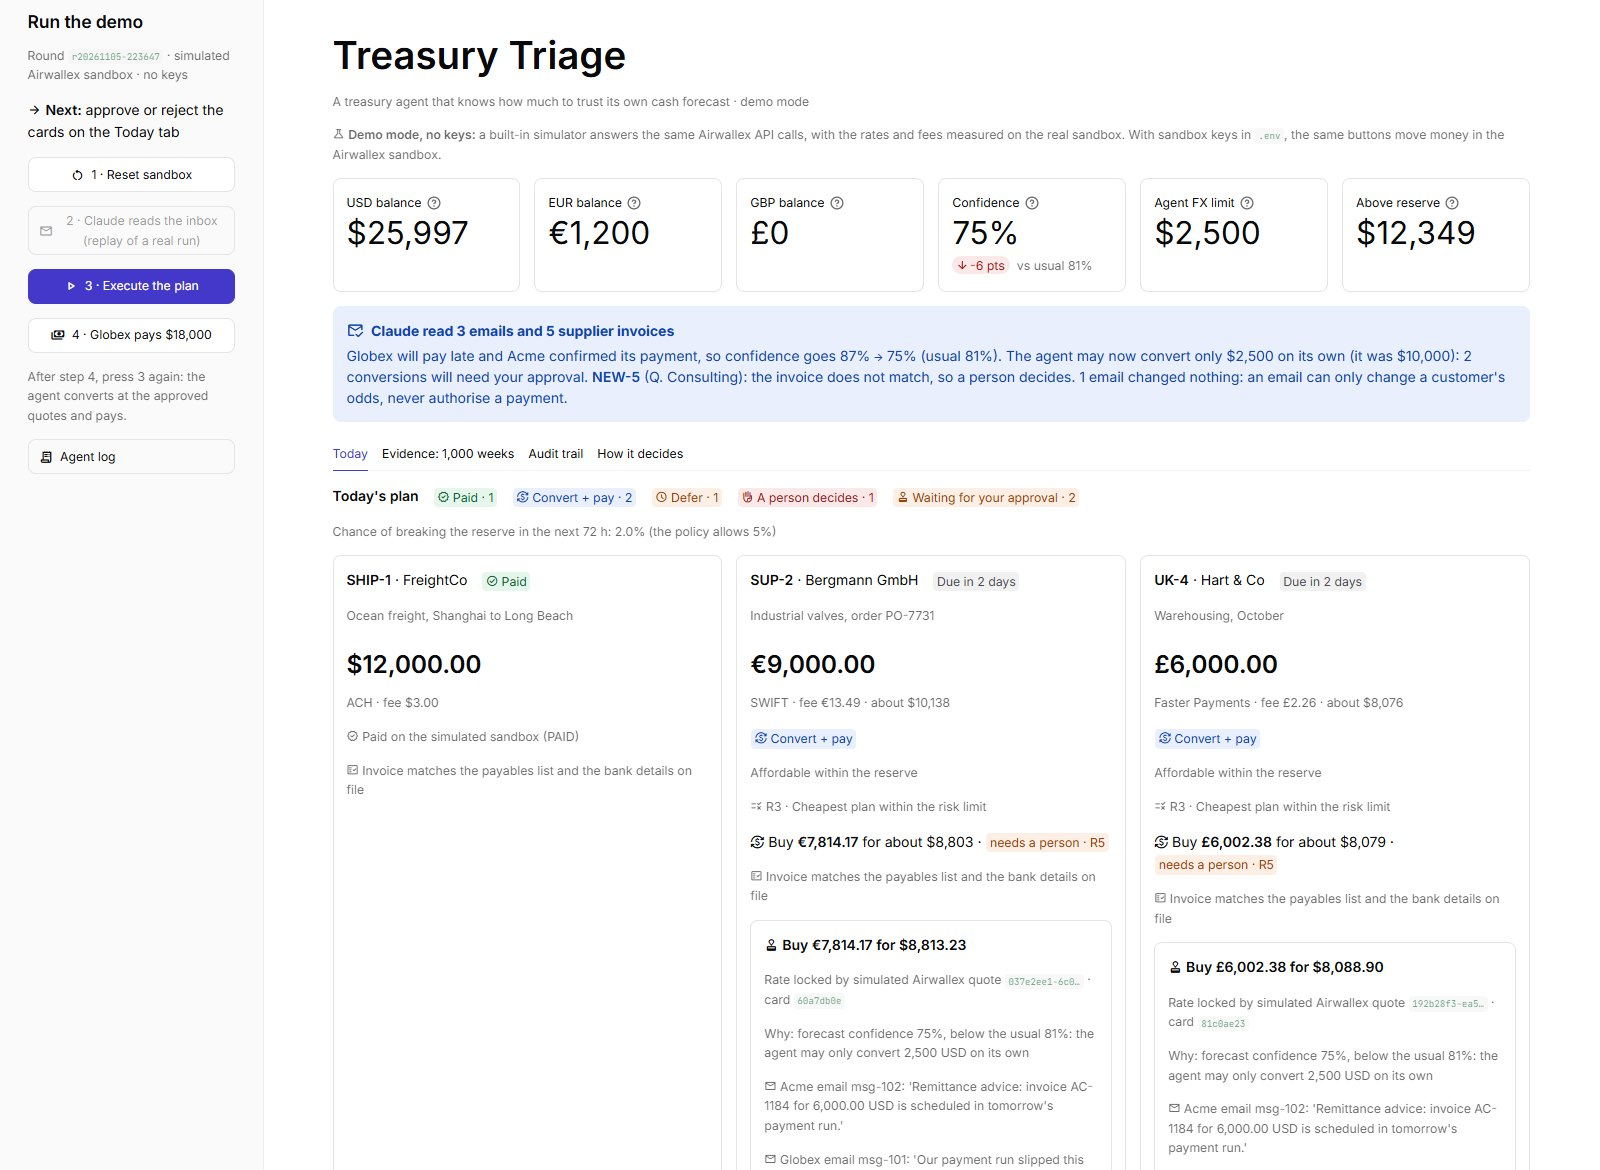
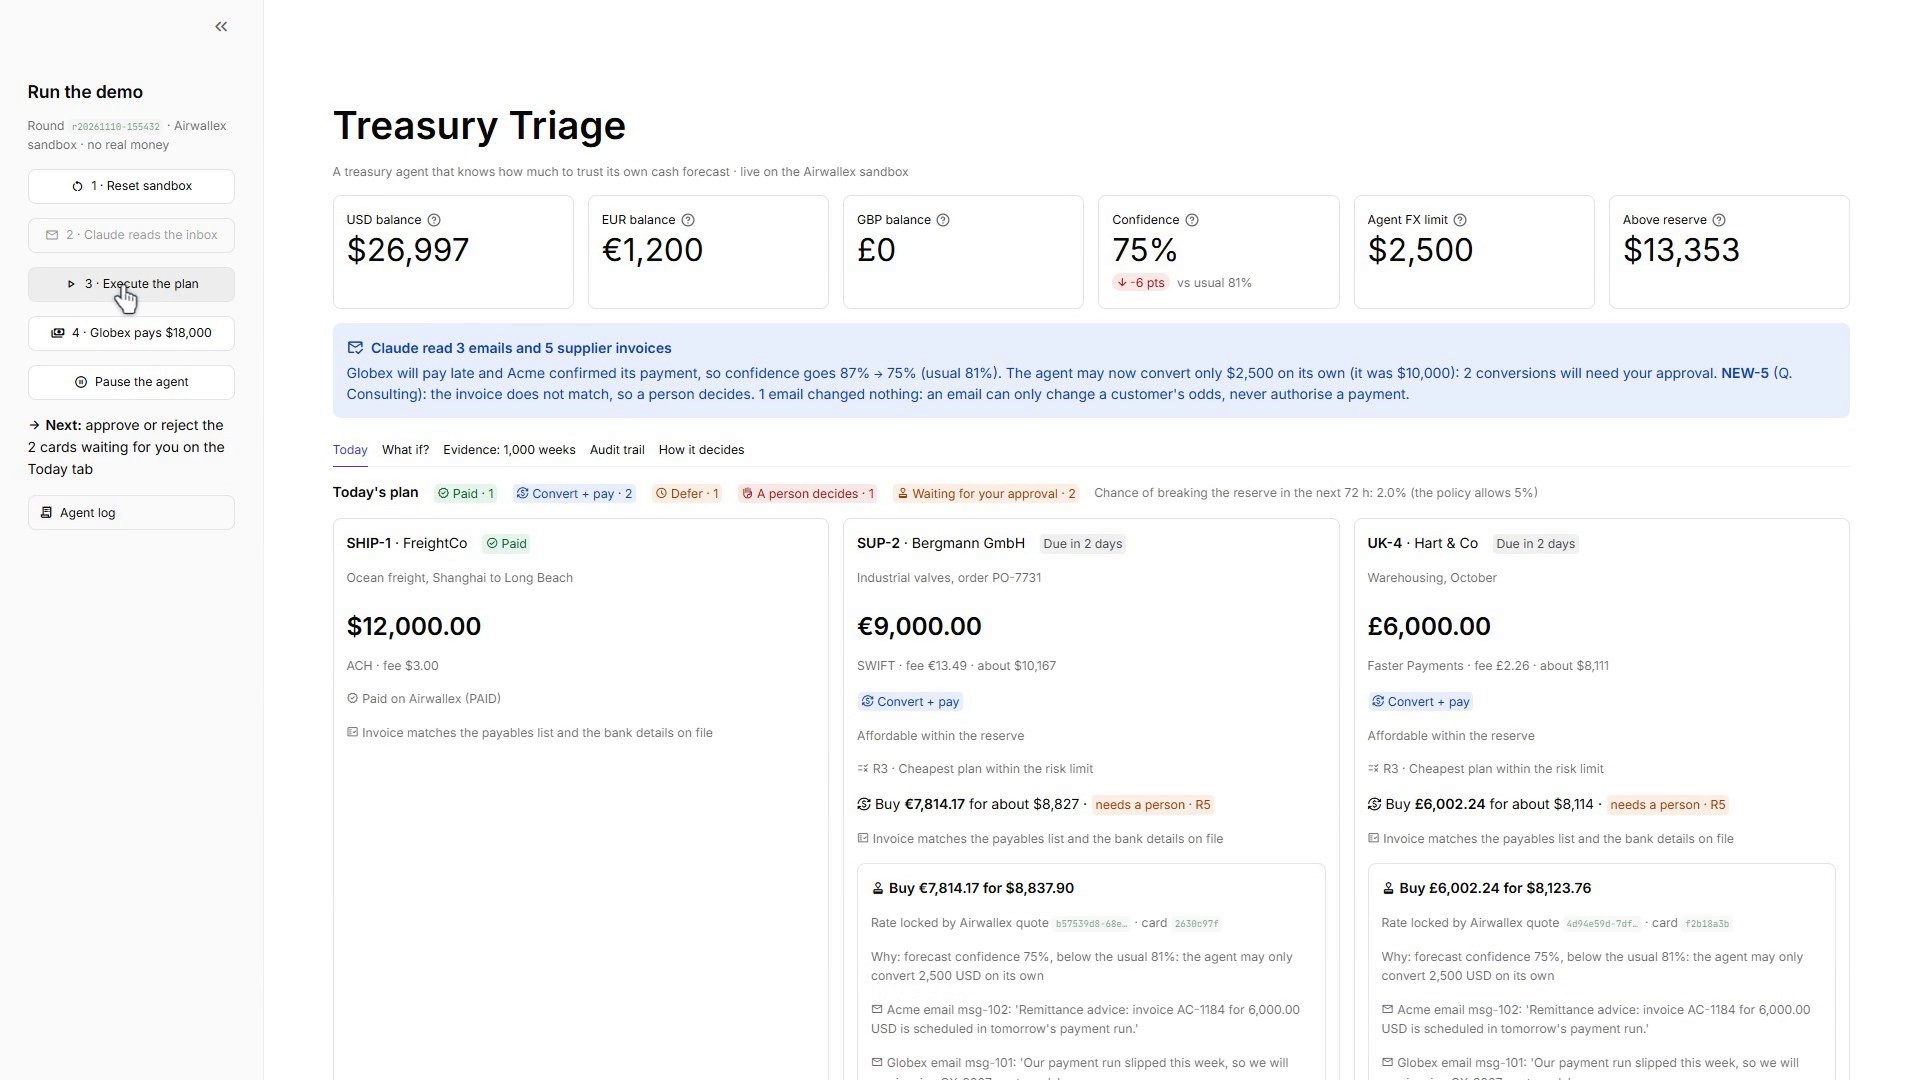
README and evidence: honest numbers, a current screenshot, and how to open the app
- The 1,000-week chart and README say the cost counts $5,000 for each week the business stops, and
  that the simulated owner approves every use of the reserve.
- Approvals after a new email: what really happens while a person is still needed, and after.
- A current screenshot, the local URL, about $11,300 in demo mode, and the out-of-order row.

diff --git a/README.md b/README.md
@@ -11,14 +11,14 @@ A founder of a small multi-currency business has five bills due in the next 72 h
 
 ![Treasury Triage after steps 2 and 3: Claude read the inbox, so forecast confidence fell from 87% to 75% and the agent's FX limit from $10,000 to $2,500; the freight bill is paid and two FX conversions wait for the owner, each bound to an exact Airwallex quote, with the reason and the emails behind it](docs/pantalla.jpg)
 
-## For judges: try it in 2 minutes, no keys needed
+## For judges: try it without keys
 
 ```bash
 pip install -r requirements.txt
 python -m streamlit run panel.py
 ```
 
-Without a `.env`, the app runs in **demo mode**: a built-in simulator (`simulador_airwallex.py`) answers the same Airwallex REST calls, behind the same wrapper, with the rates and fees we measured on the real sandbox. Claude's step **replays a real Claude run** (`grabacion_claude.json`): the same tool calls, checked again by code. With sandbox keys in `.env`, the same buttons move money in the Airwallex sandbox and Claude reads live.
+Then open http://localhost:8501. Without a `.env`, the app runs in **demo mode**: a built-in simulator (`simulador_airwallex.py`) answers the same Airwallex REST calls, behind the same wrapper, with the rates and fees we measured on the real sandbox. Claude's step **replays a real Claude run** (`grabacion_claude.json`): the same tool calls, checked again by code. With sandbox keys in `.env`, the same buttons move money in the Airwallex sandbox and Claude reads live.
 
 Press the sidebar buttons in order and check what you should see:
 
@@ -26,11 +26,12 @@ Press the sidebar buttons in order and check what you should see:
 |---|---|
 | **2 · Claude reads the inbox** | Four invoices match; Q. Consulting's asks for an account on no supplier file, and its card shows a **payee check paid on Metal: no match** (see "On Metal" below). Globex asks for more time; the fake "CFO" email is ignored. Confidence **75%, 6 points below usual**, so the agent's FX limit drops from $10,000 to $2,500 |
 | **3 · Execute the plan** | Freight paid (PAID). Both conversions now need a person: two approval cards with a locked quote. SaaS deferred, new supplier escalated |
-| **Approve** both cards | They show as approved by the owner |
+| **Approve** both cards | They show as approved by the owner, and each approval goes into the audit trail |
 | **4 · Globex pays $18,000** | The agent finds the deposit in Airwallex and matches it to invoice GX-2207. Confidence 75% → 93%. *Only* the SaaS decision changes: defer → pay |
-| **3 · Execute the plan** again | Conversions at the approved quotes, every bill the agent may pay is PAID, **reserve intact** (about $11,200 above the $15,000 floor). Q. Consulting still waits for a person |
+| **3 · Execute the plan** again | Conversions at the approved quotes, every bill the agent may pay is PAID, **reserve intact** (about $11,300 above the $15,000 floor). Q. Consulting still waits for a person |
 | **Reject** on Q. Consulting's card | The bill leaves the round's plan, with the strongest evidence as the reason (the payee check on Metal: no match). The decision is in the audit trail |
 | **Pause the agent** (sidebar) | Steps 2 and 3 switch off, and the code itself refuses to read email or move money until you press **Resume**. The pause is in the audit trail too |
+| **3 · Execute the plan** before Globex pays (out of order) | What would take cash below the $15,000 reserve waits, and the log says why: the plan counts on money that has not arrived yet |
 
 **Then try another week.** The **What if?** tab runs the same planner on a different week: other balances, bills, customer emails and FX moves, at today's rates. Press **Another scenario**, or change any number, and see which decisions move and why, against the demo's week. The rules don't move: the new supplier always goes to a person, and a conversion above the agent's limit needs one. Nothing in that tab touches Airwallex, Claude or Metal.
 
@@ -49,7 +50,7 @@ Press the sidebar buttons in order and check what you should see:
    **It never stops the business on its own.** If keeping the reserve would mean deferring a bill that halts operations, the plan pays just that bill from the reserve, as long as cash stays above zero, and **a person approves that payment** first.
 4. **Reads supplier invoices and the inbox with Claude.** Claude records what each supplier invoice says (amount, currency, due date, bank account) and what customer emails say about payment timing. Code checks every value before it counts, and **a bill whose invoice does not match the payables list or the bank details on file goes to a person**.
 5. **Ties its autonomy to forecast confidence.** In a normal week it converts up to $10,000 alone. When this week looks worse than usual for the portfolio (5+ points below the usual on-time rate), the limit drops and **the same conversion needs a person**.
-6. **Binds approvals to an Airwallex quote.** The approval card shows the exact USD cost of a locked rate, and the conversion runs at that quote. A new email, a new amount or an expired quote means a new approval.
+6. **Binds approvals to an Airwallex quote.** The approval card shows the exact USD cost of a locked rate, and the conversion runs at that quote. A new amount or an expired quote means a new approval, and so does a new email while a person is still needed. If the news means the agent no longer needs one, it keeps the exact cost you approved.
 7. **Reconciles, then re-plans.** It does not take a payment for granted: it reads the deposits in Airwallex (`/api/v1/deposits`) and matches each one to an invoice it expects, by amount, currency and the customer's name or invoice number. Each deposit counts once. Only then does it reopen the decisions the new cash changes, and it shows the diff.
 8. **Executes and audits.** It books the FX conversions, creates the beneficiaries and sends the supplier transfers (SCHEDULED → SENT → PAID in the sandbox), then confirms the reserve. Every operation goes to a ledger with its `request_id`, so nothing is paid or converted twice. Every change is also appended to an audit trail where each event carries the hash of the one before; `python verificar_auditoria.py` checks the chain and the ledger against it.
 9. **Shows its forecast.** The screen draws the cash path of the next 72 hours with the plan: the band that holds 90% of the 5,000 simulated paths, against the reserve floor. When Globex's email arrives, the band drops towards the floor.
@@ -105,7 +106,7 @@ The demo has two traps:
 | An invoice asks to pay a new bank account | The bill goes to a person; payments only go to the beneficiary on file | `test_changed_bank_details_send_the_bill_to_a_person` |
 | Claude "reads" a value that is not on the invoice | Rejected by code; the reason goes back to Claude | `test_an_invoice_value_that_is_not_on_the_invoice_is_rejected` |
 | An email from someone else's domain, or an invented quote | The signal does not count | `test_a_signal_counts_only_with_verbatim_evidence_from_the_customers_own_domain` |
-| The email changes after an approval | The old approval no longer matches: a new card | `test_other_amount_or_a_new_signal_needs_a_new_approval` |
+| A new email after an approval, while a person is still needed | The old approval no longer matches: a new card | `test_other_amount_or_a_new_signal_needs_a_new_approval` |
 | The locked quote expires | A new quote and a new approval; an expired card is not a "no" | `test_expired_quote_needs_a_new_approval`, `test_an_expired_pending_card_is_not_a_no` |
 | A pending card is treated as approved | Never: only a granted approval converts | `test_a_pending_card_is_never_used_as_an_approval` |
 | The response to a conversion is lost | The wrapper finds it by `request_id` instead of converting again | `test_conversion_lost_response_returns_the_original_instead_of_converting_again` |
@@ -134,8 +135,8 @@ Customers' true on-time odds were hidden from all of them, and the hypotheses we
 ![Weeks the business stopped, weeks below the reserve and cost per week: Treasury Triage and the same three simpler agents in every column](resultados/resumen_1000_semanas.png)
 
 On the latest two fresh seeds (2031 and 2032):
-- **The business never stopped.** The same engine that never touches the reserve stopped it in 12-13% of weeks.
-- **About $940 a week cheaper** than the no-forecast agent, and **$530-$570 cheaper** than never touching the reserve. Paying in order costs less ($105-$112), but only because going below the reserve has no price in this cost.
+- **The business never stopped** (the simulated owner approves every use of the reserve). The same engine that never touches the reserve stopped it in 12-13% of weeks.
+- **About $940 a week cheaper** than the no-forecast agent, and **$530-$570 cheaper** than never touching the reserve. Paying in order costs less ($105-$112), but only because going below the reserve has no price in this cost. The cost counts $5,000 for each week the business stops: that is $760-$800 of the no-forecast agent's $1,258-$1,299 a week.
 - **Cash never went below zero.** It went below the reserve in 5-7% of weeks, against 14% when paying in order. The agent only plans to use the reserve with a person's approval, to pay the bill that would stop the business; the other dips (15% of them) were unplanned, within the risk the plan accepts. The agent knows that risk: it predicted 5.0-6.2% and it happened in 5.4-6.6% of weeks.
 - **The forecast stays within 6 points** of what really happened in every bucket (on the seeds that tested learning: it was 11 points off without learning, and it closes 56-80% of the gap to a forecast that knew the hidden truth).
 - With "worse than usual" approvals, it **asks a person for FX in 1 week in 4 or 5**, and those weeks really are riskier: 63-74% have a late payment, against 47-48% of the others.
@@ -181,7 +182,7 @@ Full write-up and code: `motor_comun/evaluacion_real/` (`RESULTADOS.md` in Spani
 - **Real Metal testnet payment:** the payee check, 0.25 \*USDZ over x402 (`rail_metal.py`, through the `metal-agent` CLI and Metal's facilitator). The service it pays is a demo we run locally, with a synthetic registry.
 - **Synthetic:** the business, its customers' payment histories, the supplier invoices and the emails.
 - **Real data, for the payment model:** it was also checked on 4,995 real business invoices from a public dataset (see the Evidence section).
-- **Demo mode (no keys):** `simulador_airwallex.py` plays the sandbox under the same wrapper, and Claude's step replays a recorded real run (recorded on the simulator, from the demo's starting balances). Claude's briefing is shown only if the plan on screen is the one Claude saw; if not (say, a customer already paid), the screen says so instead. `TT_GRABAR=1` with a Claude key records a new run. The screen says so in a banner. It keeps its own ledger (`data_simulada/`), apart from the real sandbox's.
+- **Demo mode (no keys):** `simulador_airwallex.py` plays the sandbox under the same wrapper, and Claude's step replays a recorded real run (recorded on the simulator, from the demo's starting balances). Claude's briefing is shown only if what it talks about (confidence, decisions and the currencies to buy) is still what the screen shows; if not (say, a customer already paid), the screen says so instead. `TT_GRABAR=1` with a Claude key records a new run. The screen says so in a banner. It keeps its own ledger (`data_simulada/`), apart from the real sandbox's.
 
 ## Run it
 
@@ -202,7 +203,7 @@ In the sidebar:
 
 The same steps exist on the command line: `reiniciar_demo.py`; `ejecutar_plan.py --leer-correo` (without a Claude key it replays the last real Claude run, like the screen); `aprobar.py` to list the cards and `aprobar.py <code>` to approve each one; then `ejecutar_plan.py --deposito-globex`.
 
-Tests (offline, no keys): `python -m pytest tests motor_comun/tests` (the app and the shared engine, 151 tests). The engine lives in `motor_comun/`.
+Tests (offline, no keys): `python -m pytest tests motor_comun/tests` (the app and the shared engine, 155 tests). The engine lives in `motor_comun/`.
 
 ## Things the sandbox taught us
 
